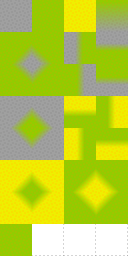
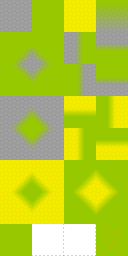
Added graphics

Changed region(s): [[0.75, 0.875, 1.0, 1.0]]

diff --git a/src/core/view/gameplay/GamePlayView.java b/src/core/view/gameplay/GamePlayView.java
@@ -46,6 +46,9 @@ public class GamePlayView {
                 case TREE:
                     gameObjectViewList.add(new TreeView(gameObject));
                     break;
+                case TREEBIG:
+                    gameObjectViewList.add(new TreeBigView(gameObject));
+                    break;
                 case ICEWALL:
                     gameObjectViewList.add(new IceWallView(gameObject));
                     break;
@@ -96,12 +99,25 @@ public class GamePlayView {
         this.renderOrder = new ArrayList<>();
         renderOrder.add(WallView.class);
         renderOrder.add(LootView.class);
+
         renderOrder.add(BanditView.class);
         renderOrder.add(BanditArcherView.class);
-        renderOrder.add(SkeletonMageView.class);
+        renderOrder.add(BanditBossView.class);
+
         renderOrder.add(SkeletonView.class);
-        renderOrder.add(HeroView.class);
+        renderOrder.add(SkeletonMageView.class);
         renderOrder.add(VampireView.class);
+
+        renderOrder.add(HeroView.class);
+
+        renderOrder.add(ArrowView.class);
+        renderOrder.add(WaterballView.class);
+        renderOrder.add(FireballView.class);
+        renderOrder.add(StoneView.class);
+        renderOrder.add(VampiricKnifeView.class);
+
+        renderOrder.add(TreeView.class);
+        renderOrder.add(TreeBigView.class);
     }
 
     public void render(GameContainer gc, Graphics g) throws SlickException {

diff --git a/src/core/model/gameplay/World.java b/src/core/model/gameplay/World.java
@@ -67,6 +67,10 @@ public class World {
                     gameObjectList.add(new Obstacle(tiledMap.getTileWidth() * i + tiledMap.getTileWidth() / 2,
                             tiledMap.getTileHeight() * j + tiledMap.getTileHeight() / 2, 0,
                             GameObjInstanceKind.TREE));
+                } else if (tileObstacleName.equals("treebig")) {
+                    gameObjectList.add(new Obstacle(tiledMap.getTileWidth() * i + tiledMap.getTileWidth() / 2,
+                            tiledMap.getTileHeight() * j + tiledMap.getTileHeight() / 2, 0,
+                            GameObjInstanceKind.TREEBIG));
                 }
                 // Objects
                 String tileObjectName = tiledMap.getTileProperty(tiledMap.getTileId(i, j, 2), "name", "error");

diff --git a/src/core/view/gameplay/gameobjectsolid/GameObjectSolidView.java b/src/core/view/gameplay/gameobjectsolid/GameObjectSolidView.java
@@ -23,7 +23,7 @@ public abstract class GameObjectSolidView extends GameObjectView {
         g.rotate((float) (gameObject.getX() - camera.getX()),
                 (float) (gameObject.getY() - camera.getY()),
                 -(float) (gameObject.getDirection() / Math.PI * 180));
-        drawMask(g, camera.getX(), camera.getY());
+        //drawMask(g, camera.getX(), camera.getY());
         g.rotate((float) (gameObject.getX() - camera.getX()),
                 (float) (gameObject.getY() - camera.getY()),
                 (float) (gameObject.getDirection() / Math.PI * 180));

diff --git a/src/core/view/gameplay/gameobjectsolid/TreeBigView.java b/src/core/view/gameplay/gameobjectsolid/TreeBigView.java
@@ -1,0 +1,13 @@
+package core.view.gameplay.gameobjectsolid;
+
+import core.model.gameplay.gameobjects.GameObject;
+import core.resourcemanager.ResourceManager;
+import org.newdawn.slick.SlickException;
+public class TreeBigView extends GameObjectSolidView {
+
+    public TreeBigView(GameObject tree) throws SlickException {
+        super(tree);
+        animation = ResourceManager.getInstance().getAnimation("tree_big");
+    }
+
+}

diff --git a/src/core/model/gameplay/gameobjects/GameObjInstanceKind.java b/src/core/model/gameplay/gameobjects/GameObjInstanceKind.java
@@ -3,7 +3,7 @@ package core.model.gameplay.gameobjects;
 public enum GameObjInstanceKind {
 
     LOOT,
-    WALL, TREE, ICEWALL,
+    WALL, TREE, ICEWALL, TREEBIG,
     ARROW, FIREBALL, THORN, STONE, WATERBALL, VAMPIRICKNIFE, DARKFLAME,
     BANDIT, BANDITARCHER, BANDITBOSS,
     GOLEM, GOLEMTINY, GOLEMBOSS,
